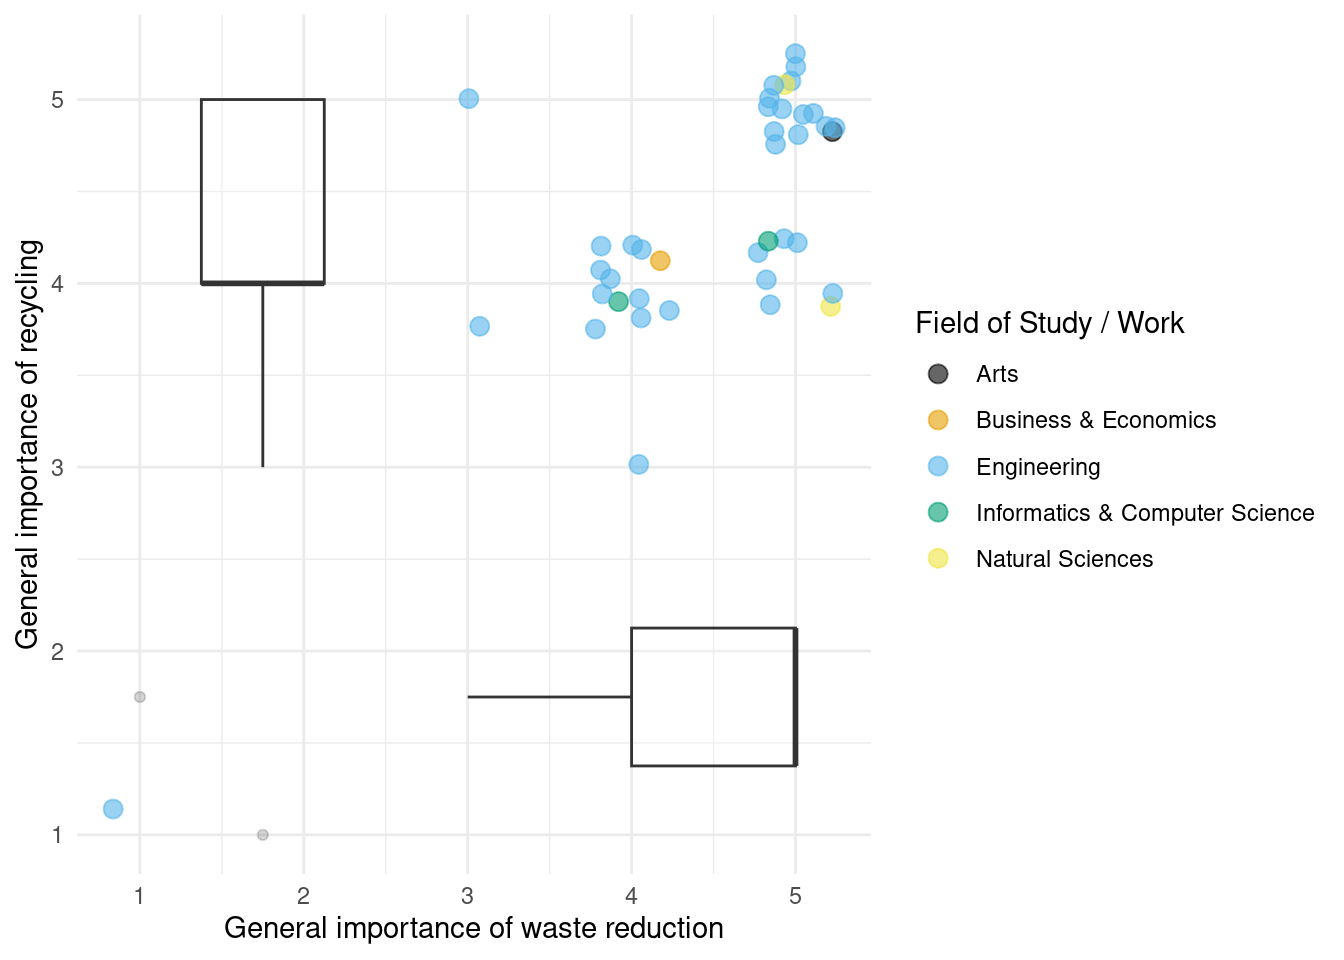
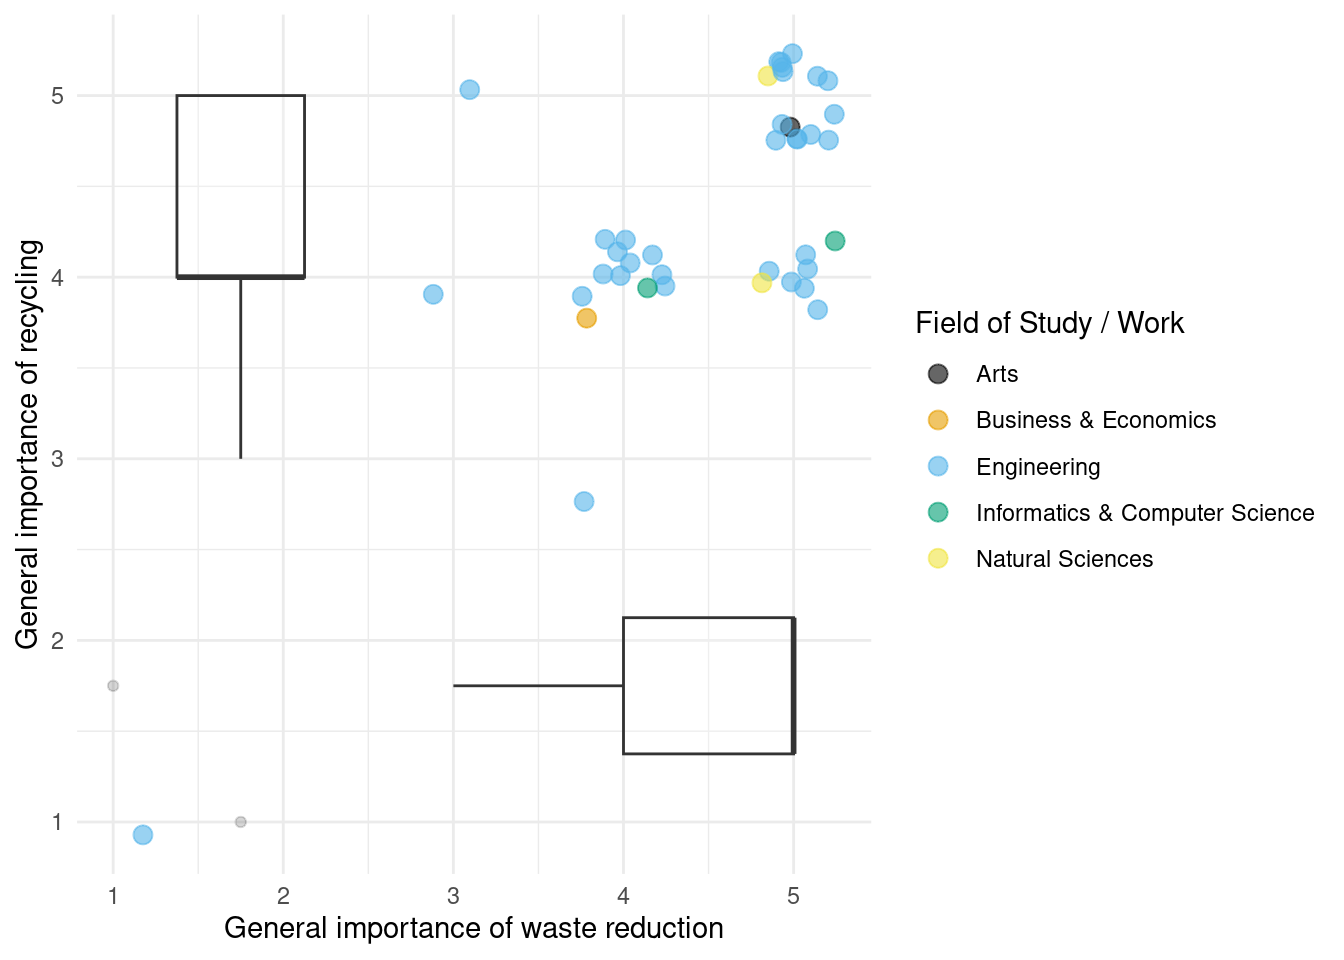
more plots

diff --git a/docs/index.html b/docs/index.html
@@ -180,20 +180,19 @@ pre > code.sourceCode > span > a:first-child::before { text-decoration: underlin
 <span id="cb2-7"><a href="#cb2-7" aria-hidden="true" tabindex="-1"></a>  <span class="fu">labs</span>(<span class="at">x =</span> <span class="st">"Institution"</span>,</span>
 <span id="cb2-8"><a href="#cb2-8" aria-hidden="true" tabindex="-1"></a>       <span class="at">y =</span> <span class="st">"Number of responses"</span>) <span class="sc">+</span></span>
 <span id="cb2-9"><a href="#cb2-9" aria-hidden="true" tabindex="-1"></a>  <span class="fu">theme_minimal</span>() <span class="sc">+</span></span>
-<span id="cb2-10"><a href="#cb2-10" aria-hidden="true" tabindex="-1"></a>  <span class="fu">scale_fill_colorblind</span>() <span class="sc">+</span></span>
-<span id="cb2-11"><a href="#cb2-11" aria-hidden="true" tabindex="-1"></a>  <span class="fu">theme</span>(<span class="at">legend.position =</span> <span class="st">"none"</span>)</span>
-<span id="cb2-12"><a href="#cb2-12" aria-hidden="true" tabindex="-1"></a></span>
-<span id="cb2-13"><a href="#cb2-13" aria-hidden="true" tabindex="-1"></a><span class="fu">ggplot</span>(<span class="at">data =</span> df) <span class="sc">+</span></span>
-<span id="cb2-14"><a href="#cb2-14" aria-hidden="true" tabindex="-1"></a>  <span class="fu">geom_bar</span>(<span class="at">mapping =</span> <span class="fu">aes</span>(<span class="at">x =</span> age,</span>
-<span id="cb2-15"><a href="#cb2-15" aria-hidden="true" tabindex="-1"></a>                     <span class="at">fill =</span> field)) <span class="sc">+</span></span>
-<span id="cb2-16"><a href="#cb2-16" aria-hidden="true" tabindex="-1"></a>  <span class="fu">scale_x_continuous</span>(<span class="at">breaks =</span> <span class="fu">seq</span>(<span class="at">from =</span> <span class="dv">0</span>, <span class="at">to =</span> <span class="dv">100</span>, <span class="at">by =</span> <span class="dv">1</span>)) <span class="sc">+</span></span>
-<span id="cb2-17"><a href="#cb2-17" aria-hidden="true" tabindex="-1"></a>  <span class="fu">scale_y_continuous</span>(<span class="at">breaks =</span> <span class="fu">seq</span>(<span class="at">from =</span> <span class="dv">0</span>, <span class="at">to =</span> <span class="dv">100</span>, <span class="at">by =</span> <span class="dv">1</span>)) <span class="sc">+</span></span>
-<span id="cb2-18"><a href="#cb2-18" aria-hidden="true" tabindex="-1"></a>  <span class="fu">labs</span>(<span class="at">x =</span> <span class="st">"Age"</span>,</span>
-<span id="cb2-19"><a href="#cb2-19" aria-hidden="true" tabindex="-1"></a>       <span class="at">y =</span> <span class="st">"Number of responses"</span>,</span>
-<span id="cb2-20"><a href="#cb2-20" aria-hidden="true" tabindex="-1"></a>       <span class="at">fill =</span> <span class="st">"Field of Study / Work"</span>) <span class="sc">+</span></span>
-<span id="cb2-21"><a href="#cb2-21" aria-hidden="true" tabindex="-1"></a>  <span class="fu">theme_minimal</span>() <span class="sc">+</span></span>
-<span id="cb2-22"><a href="#cb2-22" aria-hidden="true" tabindex="-1"></a>  <span class="fu">scale_fill_colorblind</span>() <span class="sc">+</span></span>
-<span id="cb2-23"><a href="#cb2-23" aria-hidden="true" tabindex="-1"></a>  <span class="fu">geom_boxplot</span>(<span class="at">mapping =</span> <span class="fu">aes</span>(<span class="at">x =</span> age), <span class="at">alpha =</span> <span class="fl">0.2</span>, <span class="at">position =</span> <span class="fu">position_nudge</span>(<span class="at">y=</span><span class="fl">3.5</span>), <span class="at">width =</span> <span class="dv">2</span>)</span></code><button title="Copy to Clipboard" class="code-copy-button"><i class="bi"></i></button></pre></div>
+<span id="cb2-10"><a href="#cb2-10" aria-hidden="true" tabindex="-1"></a>  <span class="fu">scale_fill_colorblind</span>()</span>
+<span id="cb2-11"><a href="#cb2-11" aria-hidden="true" tabindex="-1"></a></span>
+<span id="cb2-12"><a href="#cb2-12" aria-hidden="true" tabindex="-1"></a><span class="fu">ggplot</span>(<span class="at">data =</span> df) <span class="sc">+</span></span>
+<span id="cb2-13"><a href="#cb2-13" aria-hidden="true" tabindex="-1"></a>  <span class="fu">geom_bar</span>(<span class="at">mapping =</span> <span class="fu">aes</span>(<span class="at">x =</span> age,</span>
+<span id="cb2-14"><a href="#cb2-14" aria-hidden="true" tabindex="-1"></a>                     <span class="at">fill =</span> field)) <span class="sc">+</span></span>
+<span id="cb2-15"><a href="#cb2-15" aria-hidden="true" tabindex="-1"></a>  <span class="fu">scale_x_continuous</span>(<span class="at">breaks =</span> <span class="fu">seq</span>(<span class="at">from =</span> <span class="dv">0</span>, <span class="at">to =</span> <span class="dv">100</span>, <span class="at">by =</span> <span class="dv">1</span>)) <span class="sc">+</span></span>
+<span id="cb2-16"><a href="#cb2-16" aria-hidden="true" tabindex="-1"></a>  <span class="fu">scale_y_continuous</span>(<span class="at">breaks =</span> <span class="fu">seq</span>(<span class="at">from =</span> <span class="dv">0</span>, <span class="at">to =</span> <span class="dv">100</span>, <span class="at">by =</span> <span class="dv">1</span>)) <span class="sc">+</span></span>
+<span id="cb2-17"><a href="#cb2-17" aria-hidden="true" tabindex="-1"></a>  <span class="fu">labs</span>(<span class="at">x =</span> <span class="st">"Age"</span>,</span>
+<span id="cb2-18"><a href="#cb2-18" aria-hidden="true" tabindex="-1"></a>       <span class="at">y =</span> <span class="st">"Number of responses"</span>,</span>
+<span id="cb2-19"><a href="#cb2-19" aria-hidden="true" tabindex="-1"></a>       <span class="at">fill =</span> <span class="st">"Field of Study / Work"</span>) <span class="sc">+</span></span>
+<span id="cb2-20"><a href="#cb2-20" aria-hidden="true" tabindex="-1"></a>  <span class="fu">theme_minimal</span>() <span class="sc">+</span></span>
+<span id="cb2-21"><a href="#cb2-21" aria-hidden="true" tabindex="-1"></a>  <span class="fu">scale_fill_colorblind</span>() <span class="sc">+</span></span>
+<span id="cb2-22"><a href="#cb2-22" aria-hidden="true" tabindex="-1"></a>  <span class="fu">geom_boxplot</span>(<span class="at">mapping =</span> <span class="fu">aes</span>(<span class="at">x =</span> age), <span class="at">alpha =</span> <span class="fl">0.2</span>, <span class="at">position =</span> <span class="fu">position_nudge</span>(<span class="at">y=</span><span class="fl">3.5</span>), <span class="at">width =</span> <span class="dv">2</span>)</span></code><button title="Copy to Clipboard" class="code-copy-button"><i class="bi"></i></button></pre></div>
 </details>
 <div id="fig-respondents-institution" class="quarto-layout-panel">
 <figure class="quarto-float quarto-float-fig figure">
@@ -341,10 +340,10 @@ Figure&nbsp;4: Single-use cup usage frequency and main reason
 <span id="cb6-5"><a href="#cb6-5" aria-hidden="true" tabindex="-1"></a>               <span class="at">alpha =</span> <span class="fl">0.2</span>, <span class="at">position =</span> <span class="fu">position_nudge</span>(<span class="at">y=</span><span class="fl">2.75</span>), <span class="at">width =</span> <span class="dv">3</span>) <span class="sc">+</span></span>
 <span id="cb6-6"><a href="#cb6-6" aria-hidden="true" tabindex="-1"></a>  <span class="fu">scale_y_continuous</span>(<span class="at">breaks =</span> <span class="fu">seq</span>(<span class="at">from =</span> <span class="dv">0</span>, <span class="at">to =</span> <span class="dv">100</span>, <span class="at">by =</span> <span class="dv">2</span>)) <span class="sc">+</span></span>
 <span id="cb6-7"><a href="#cb6-7" aria-hidden="true" tabindex="-1"></a>  <span class="fu">labs</span>(<span class="at">x =</span> <span class="st">"How would a ban impact your daily life?"</span>,</span>
-<span id="cb6-8"><a href="#cb6-8" aria-hidden="true" tabindex="-1"></a>       <span class="at">y =</span> <span class="st">"Number of responses"</span>) <span class="sc">+</span></span>
-<span id="cb6-9"><a href="#cb6-9" aria-hidden="true" tabindex="-1"></a>  <span class="fu">theme_minimal</span>() <span class="sc">+</span></span>
-<span id="cb6-10"><a href="#cb6-10" aria-hidden="true" tabindex="-1"></a>  <span class="fu">scale_fill_colorblind</span>() <span class="sc">+</span></span>
-<span id="cb6-11"><a href="#cb6-11" aria-hidden="true" tabindex="-1"></a>  <span class="fu">theme</span>(<span class="at">legend.position =</span> <span class="st">"none"</span>)</span>
+<span id="cb6-8"><a href="#cb6-8" aria-hidden="true" tabindex="-1"></a>       <span class="at">y =</span> <span class="st">"Number of responses"</span>,</span>
+<span id="cb6-9"><a href="#cb6-9" aria-hidden="true" tabindex="-1"></a>       <span class="at">fill =</span> <span class="st">"Main reason"</span>) <span class="sc">+</span></span>
+<span id="cb6-10"><a href="#cb6-10" aria-hidden="true" tabindex="-1"></a>  <span class="fu">theme_minimal</span>() <span class="sc">+</span></span>
+<span id="cb6-11"><a href="#cb6-11" aria-hidden="true" tabindex="-1"></a>  <span class="fu">scale_fill_colorblind</span>(<span class="at">labels =</span> <span class="fu">c</span>(<span class="st">"Convenience"</span>, <span class="st">"Hygiene"</span>, <span class="st">"Aesthetics"</span>, <span class="st">"Price"</span>, <span class="st">"I never use single-use cups"</span>))</span>
 <span id="cb6-12"><a href="#cb6-12" aria-hidden="true" tabindex="-1"></a></span>
 <span id="cb6-13"><a href="#cb6-13" aria-hidden="true" tabindex="-1"></a></span>
 <span id="cb6-14"><a href="#cb6-14" aria-hidden="true" tabindex="-1"></a></span>
@@ -410,10 +409,10 @@ Figure&nbsp;5: The negative impact on daily life of a ban on single-use cups
 <span id="cb7-5"><a href="#cb7-5" aria-hidden="true" tabindex="-1"></a>               <span class="at">alpha =</span> <span class="fl">0.2</span>, <span class="at">position =</span> <span class="fu">position_nudge</span>(<span class="at">y=</span><span class="fl">2.75</span>), <span class="at">width =</span> <span class="dv">3</span>) <span class="sc">+</span></span>
 <span id="cb7-6"><a href="#cb7-6" aria-hidden="true" tabindex="-1"></a>  <span class="fu">scale_y_continuous</span>(<span class="at">breaks =</span> <span class="fu">seq</span>(<span class="at">from =</span> <span class="dv">0</span>, <span class="at">to =</span> <span class="dv">100</span>, <span class="at">by =</span> <span class="dv">2</span>)) <span class="sc">+</span></span>
 <span id="cb7-7"><a href="#cb7-7" aria-hidden="true" tabindex="-1"></a>  <span class="fu">labs</span>(<span class="at">x =</span> <span class="st">"Support for a ban on single-use cups from 1 to 5"</span>,</span>
-<span id="cb7-8"><a href="#cb7-8" aria-hidden="true" tabindex="-1"></a>       <span class="at">y =</span> <span class="st">"Number of responses"</span>) <span class="sc">+</span></span>
-<span id="cb7-9"><a href="#cb7-9" aria-hidden="true" tabindex="-1"></a>  <span class="fu">theme_minimal</span>() <span class="sc">+</span></span>
-<span id="cb7-10"><a href="#cb7-10" aria-hidden="true" tabindex="-1"></a>  <span class="fu">scale_fill_colorblind</span>() <span class="sc">+</span></span>
-<span id="cb7-11"><a href="#cb7-11" aria-hidden="true" tabindex="-1"></a>  <span class="fu">theme</span>(<span class="at">legend.position =</span> <span class="st">"none"</span>)</span>
+<span id="cb7-8"><a href="#cb7-8" aria-hidden="true" tabindex="-1"></a>       <span class="at">y =</span> <span class="st">"Number of responses"</span>,</span>
+<span id="cb7-9"><a href="#cb7-9" aria-hidden="true" tabindex="-1"></a>       <span class="at">fill =</span> <span class="st">"Main reason"</span>) <span class="sc">+</span></span>
+<span id="cb7-10"><a href="#cb7-10" aria-hidden="true" tabindex="-1"></a>  <span class="fu">theme_minimal</span>() <span class="sc">+</span></span>
+<span id="cb7-11"><a href="#cb7-11" aria-hidden="true" tabindex="-1"></a>  <span class="fu">scale_fill_colorblind</span>(<span class="at">labels =</span> <span class="fu">c</span>(<span class="st">"Convenience"</span>, <span class="st">"Hygiene"</span>, <span class="st">"Aesthetics"</span>, <span class="st">"Price"</span>, <span class="st">"I never use single-use cups"</span>))</span>
 <span id="cb7-12"><a href="#cb7-12" aria-hidden="true" tabindex="-1"></a></span>
 <span id="cb7-13"><a href="#cb7-13" aria-hidden="true" tabindex="-1"></a></span>
 <span id="cb7-14"><a href="#cb7-14" aria-hidden="true" tabindex="-1"></a></span>
@@ -512,24 +511,23 @@ Figure&nbsp;6: Opinions on a ban on single-use cups
 <span id="cb8-7"><a href="#cb8-7" aria-hidden="true" tabindex="-1"></a>  <span class="fu">labs</span>(<span class="at">x =</span> <span class="st">"Support for a ban on single-use cups from 1 to 5"</span>,</span>
 <span id="cb8-8"><a href="#cb8-8" aria-hidden="true" tabindex="-1"></a>       <span class="at">y =</span> <span class="st">"Number of responses"</span>) <span class="sc">+</span></span>
 <span id="cb8-9"><a href="#cb8-9" aria-hidden="true" tabindex="-1"></a>  <span class="fu">theme_minimal</span>() <span class="sc">+</span></span>
-<span id="cb8-10"><a href="#cb8-10" aria-hidden="true" tabindex="-1"></a>  <span class="fu">scale_fill_colorblind</span>() <span class="sc">+</span></span>
-<span id="cb8-11"><a href="#cb8-11" aria-hidden="true" tabindex="-1"></a>  <span class="fu">theme</span>(<span class="at">legend.position =</span> <span class="st">"none"</span>)</span>
+<span id="cb8-10"><a href="#cb8-10" aria-hidden="true" tabindex="-1"></a>  <span class="fu">scale_fill_colorblind</span>()</span>
+<span id="cb8-11"><a href="#cb8-11" aria-hidden="true" tabindex="-1"></a></span>
 <span id="cb8-12"><a href="#cb8-12" aria-hidden="true" tabindex="-1"></a></span>
 <span id="cb8-13"><a href="#cb8-13" aria-hidden="true" tabindex="-1"></a></span>
-<span id="cb8-14"><a href="#cb8-14" aria-hidden="true" tabindex="-1"></a></span>
-<span id="cb8-15"><a href="#cb8-15" aria-hidden="true" tabindex="-1"></a><span class="fu">ggplot</span>(<span class="at">data =</span> df) <span class="sc">+</span></span>
-<span id="cb8-16"><a href="#cb8-16" aria-hidden="true" tabindex="-1"></a>  <span class="fu">geom_jitter</span>(<span class="at">mapping =</span> <span class="fu">aes</span>(<span class="at">x =</span> singleusecup_ban_support,</span>
-<span id="cb8-17"><a href="#cb8-17" aria-hidden="true" tabindex="-1"></a>                            <span class="at">y =</span> position,</span>
-<span id="cb8-18"><a href="#cb8-18" aria-hidden="true" tabindex="-1"></a>                            <span class="at">color =</span> field),</span>
-<span id="cb8-19"><a href="#cb8-19" aria-hidden="true" tabindex="-1"></a>              <span class="at">size =</span> <span class="dv">3</span>, <span class="at">alpha =</span> <span class="fl">0.6</span>, <span class="at">width =</span> <span class="fl">0.2</span>, <span class="at">height =</span> <span class="fl">0.2</span>) <span class="sc">+</span></span>
-<span id="cb8-20"><a href="#cb8-20" aria-hidden="true" tabindex="-1"></a>  <span class="fu">geom_boxplot</span>(<span class="at">mapping =</span> <span class="fu">aes</span>(<span class="at">x =</span> singleusecup_ban_support),</span>
-<span id="cb8-21"><a href="#cb8-21" aria-hidden="true" tabindex="-1"></a>               <span class="at">alpha =</span> <span class="fl">0.2</span>, <span class="at">position =</span> <span class="fu">position_nudge</span>(<span class="at">y=</span><span class="fl">0.75</span>), <span class="at">width =</span> <span class="fl">0.5</span>) <span class="sc">+</span></span>
-<span id="cb8-22"><a href="#cb8-22" aria-hidden="true" tabindex="-1"></a>  <span class="fu">scale_x_continuous</span>(<span class="at">breaks =</span> <span class="fu">seq</span>(<span class="at">from =</span> <span class="dv">0</span>, <span class="at">to =</span> <span class="dv">100</span>, <span class="at">by =</span> <span class="dv">1</span>)) <span class="sc">+</span></span>
-<span id="cb8-23"><a href="#cb8-23" aria-hidden="true" tabindex="-1"></a>  <span class="fu">scale_color_colorblind</span>() <span class="sc">+</span></span>
-<span id="cb8-24"><a href="#cb8-24" aria-hidden="true" tabindex="-1"></a>  <span class="fu">labs</span>(<span class="at">x =</span> <span class="st">"Support for a ban on single-use cups from 1 to 5"</span>,</span>
-<span id="cb8-25"><a href="#cb8-25" aria-hidden="true" tabindex="-1"></a>       <span class="at">y =</span> <span class="st">"Study program"</span>,</span>
-<span id="cb8-26"><a href="#cb8-26" aria-hidden="true" tabindex="-1"></a>       <span class="at">color =</span> <span class="st">"Study field"</span>) <span class="sc">+</span></span>
-<span id="cb8-27"><a href="#cb8-27" aria-hidden="true" tabindex="-1"></a>  <span class="fu">theme_minimal</span>()</span></code><button title="Copy to Clipboard" class="code-copy-button"><i class="bi"></i></button></pre></div>
+<span id="cb8-14"><a href="#cb8-14" aria-hidden="true" tabindex="-1"></a><span class="fu">ggplot</span>(<span class="at">data =</span> df) <span class="sc">+</span></span>
+<span id="cb8-15"><a href="#cb8-15" aria-hidden="true" tabindex="-1"></a>  <span class="fu">geom_jitter</span>(<span class="at">mapping =</span> <span class="fu">aes</span>(<span class="at">x =</span> singleusecup_ban_support,</span>
+<span id="cb8-16"><a href="#cb8-16" aria-hidden="true" tabindex="-1"></a>                            <span class="at">y =</span> position,</span>
+<span id="cb8-17"><a href="#cb8-17" aria-hidden="true" tabindex="-1"></a>                            <span class="at">color =</span> field),</span>
+<span id="cb8-18"><a href="#cb8-18" aria-hidden="true" tabindex="-1"></a>              <span class="at">size =</span> <span class="dv">3</span>, <span class="at">alpha =</span> <span class="fl">0.6</span>, <span class="at">width =</span> <span class="fl">0.2</span>, <span class="at">height =</span> <span class="fl">0.2</span>) <span class="sc">+</span></span>
+<span id="cb8-19"><a href="#cb8-19" aria-hidden="true" tabindex="-1"></a>  <span class="fu">geom_boxplot</span>(<span class="at">mapping =</span> <span class="fu">aes</span>(<span class="at">x =</span> singleusecup_ban_support),</span>
+<span id="cb8-20"><a href="#cb8-20" aria-hidden="true" tabindex="-1"></a>               <span class="at">alpha =</span> <span class="fl">0.2</span>, <span class="at">position =</span> <span class="fu">position_nudge</span>(<span class="at">y=</span><span class="fl">0.75</span>), <span class="at">width =</span> <span class="fl">0.5</span>) <span class="sc">+</span></span>
+<span id="cb8-21"><a href="#cb8-21" aria-hidden="true" tabindex="-1"></a>  <span class="fu">scale_x_continuous</span>(<span class="at">breaks =</span> <span class="fu">seq</span>(<span class="at">from =</span> <span class="dv">0</span>, <span class="at">to =</span> <span class="dv">100</span>, <span class="at">by =</span> <span class="dv">1</span>)) <span class="sc">+</span></span>
+<span id="cb8-22"><a href="#cb8-22" aria-hidden="true" tabindex="-1"></a>  <span class="fu">scale_color_colorblind</span>() <span class="sc">+</span></span>
+<span id="cb8-23"><a href="#cb8-23" aria-hidden="true" tabindex="-1"></a>  <span class="fu">labs</span>(<span class="at">x =</span> <span class="st">"Support for a ban on single-use cups from 1 to 5"</span>,</span>
+<span id="cb8-24"><a href="#cb8-24" aria-hidden="true" tabindex="-1"></a>       <span class="at">y =</span> <span class="st">"Study program"</span>,</span>
+<span id="cb8-25"><a href="#cb8-25" aria-hidden="true" tabindex="-1"></a>       <span class="at">color =</span> <span class="st">"Study field"</span>) <span class="sc">+</span></span>
+<span id="cb8-26"><a href="#cb8-26" aria-hidden="true" tabindex="-1"></a>  <span class="fu">theme_minimal</span>()</span></code><button title="Copy to Clipboard" class="code-copy-button"><i class="bi"></i></button></pre></div>
 </details>
 <div id="fig-support-study" class="quarto-layout-panel">
 <figure class="quarto-float quarto-float-fig figure">
